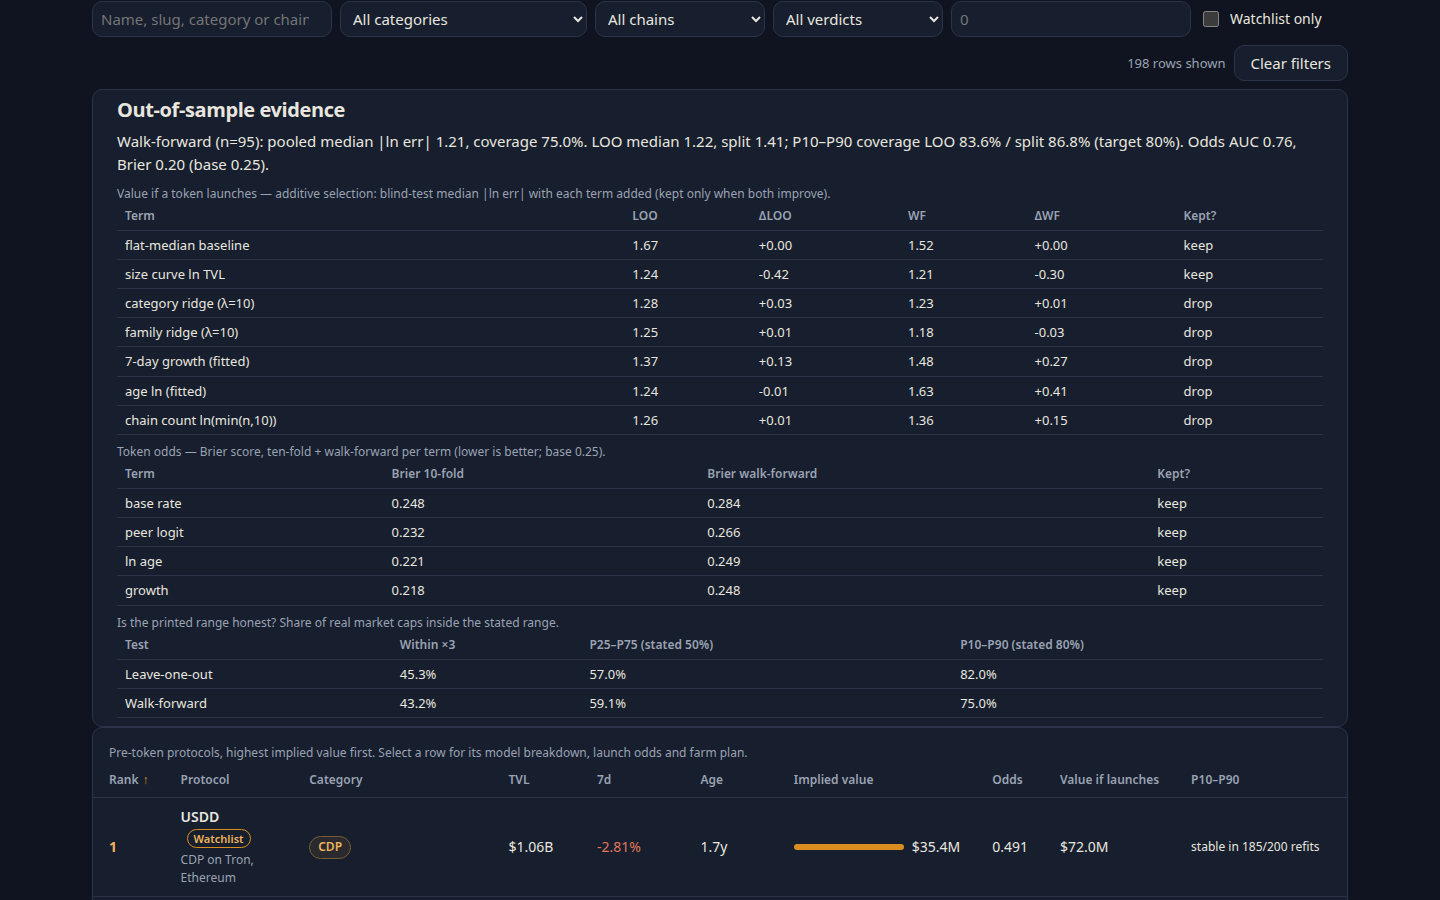
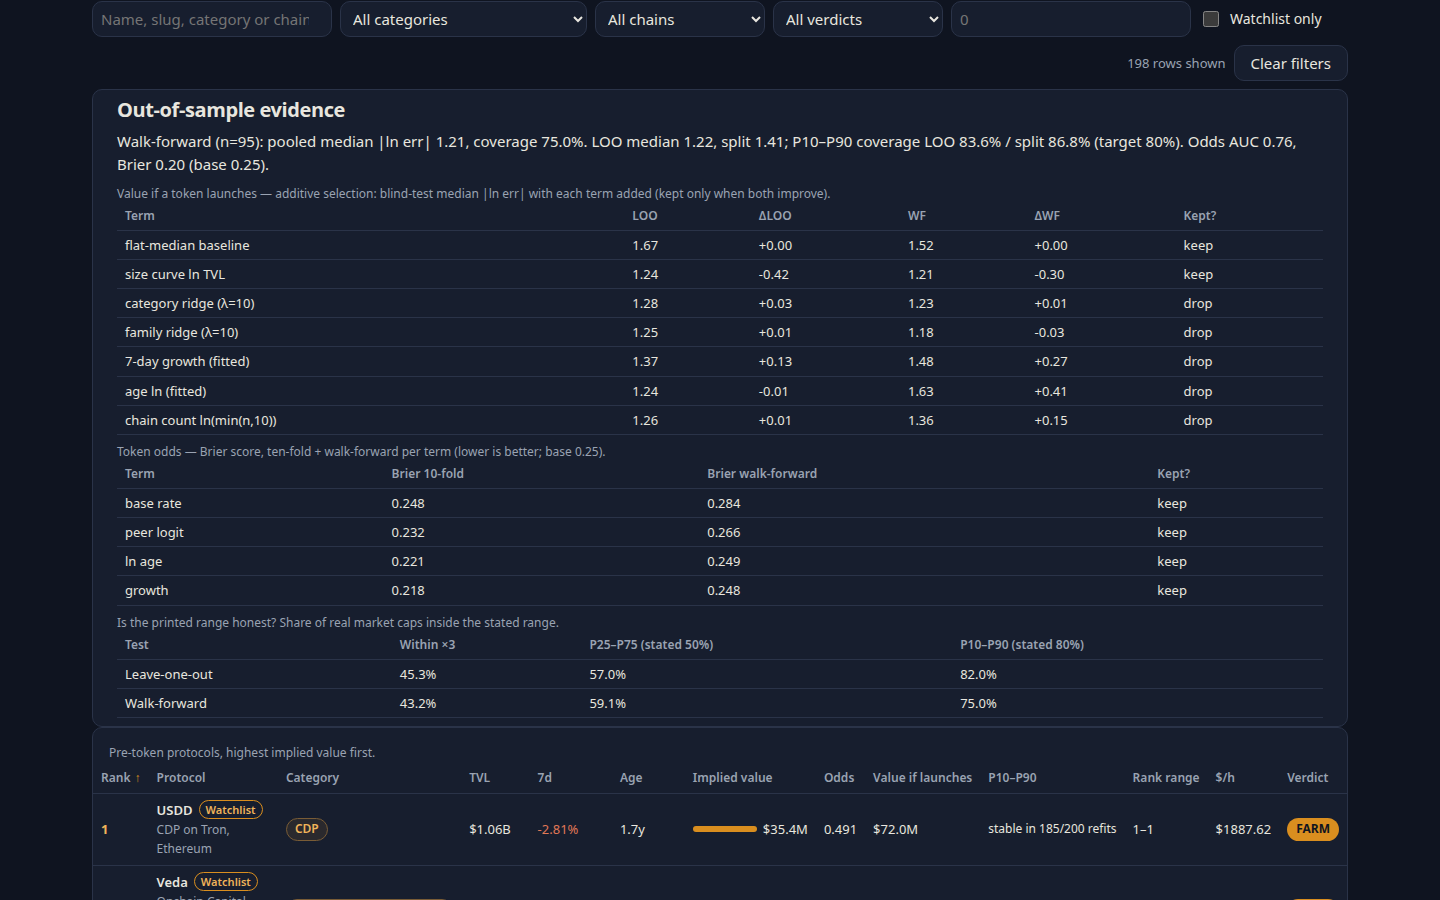
Radar-7 fix1: FARM view sorted by $/hour, board table fits at 1440px

diff --git a/dashboard/app.js b/dashboard/app.js
@@ -1,14 +1,11 @@
-// Token Radar dashboard (radar-7). Renders window.RADAR (data.js) — board,
-// filters, detail, live section, KPI/integrity, ledger, methodology,
-// sandbox. No network, no fetch, no framework. All numbers come from DATA.
+// Token Radar dashboard (radar-7): renders window.RADAR. No network; all numbers come from DATA.
 (function () {
   'use strict';
 
   var DATA = window.RADAR;
   if (!DATA) return;
 
-  // Distinct values actually present on the board; a hash may name a value
-  // outside these sets (e.g. #category=CEX — CEX is live-only, never board).
+  // Values actually present on the board (a hash may name others).
   var boardCats = {}, boardChains = {};
 
   var state = {
@@ -40,8 +37,7 @@
   function fmtRange(lo, hi) {
     return fmtUsd(lo) + '–' + fmtUsd(hi);
   }
-  // Collapsed bootstrap intervals (P10 = P90) are shown as the measured
-  // refit count, never as two identical bounds (radar-4 T4).
+  // Collapsed intervals show the refit count, never two equal bounds.
   function fmtInterval(r) {
     if (r.stable_refits !== null && r.stable_refits !== undefined) {
       return 'stable in ' + r.stable_refits + '/' + DATA.assumptions.bootstrap_b + ' refits';
@@ -91,6 +87,8 @@
     state.watchOnly = params.get('watch') === '1';
     state.minTvl = parseFloat(params.get('min')) || 0;
     state.selected = params.get('p');
+    // T4: the FARM view sorts by $/hour, not rank.
+    if (state.verdict === 'FARM') { state.sort = 'dph'; state.dir = -1; }
   }
   function writeHash() {
     var params = new URLSearchParams();
@@ -134,6 +132,7 @@
       else if (key === 'ev') { av = a.value_if_launches_usd; bv = b.value_if_launches_usd; }
       else if (key === 'interval') { av = a.p90_usd; bv = b.p90_usd; }
       else if (key === 'rankrange') { av = a.rank_hi - a.rank_lo; bv = b.rank_hi - b.rank_lo; }
+      else if (key === 'dph') { av = a.dollars_per_hour; bv = b.dollars_per_hour; }
       else if (key === 'verdict') { av = VERDICT_ORDER[a.verdict]; bv = VERDICT_ORDER[b.verdict]; }
       else { av = a.implied_value_usd; bv = b.implied_value_usd; }
       if (av < bv) return -dir;
@@ -151,9 +150,7 @@
     });
   }
 
-  // Keep a select in sync even when the requested value is not a board
-  // value: show the requested value as a clearly-marked option instead of
-  // leaving the select on some other category (or on nothing at all).
+  // Keep a select in sync even for a value not on the board (marked).
   function syncSelectWithUnknown(select, value, known) {
     var prev = select.querySelector('option[data-unknown]');
     if (prev) prev.remove();
@@ -192,11 +189,17 @@
     q.addEventListener('input', function () { state.q = q.value; writeHash(); renderRows(); });
     cat.addEventListener('change', function () { state.category = cat.value; writeHash(); renderRows(); });
     ch.addEventListener('change', function () { state.chain = ch.value; writeHash(); renderRows(); });
-    verdict.addEventListener('change', function () { state.verdict = verdict.value; writeHash(); renderRows(); });
+    verdict.addEventListener('change', function () {
+      state.verdict = verdict.value;
+      if (state.verdict === 'FARM') { state.sort = 'dph'; state.dir = -1; }
+      else if (state.sort === 'dph') { state.sort = 'rank'; state.dir = 1; }
+      writeHash(); renderRows();
+    });
     min.addEventListener('input', function () { state.minTvl = parseFloat(min.value) || 0; writeHash(); renderRows(); });
     watch.addEventListener('change', function () { state.watchOnly = watch.checked; writeHash(); renderRows(); });
     document.getElementById('clear').addEventListener('click', function () {
       state.q = ''; state.category = 'all'; state.chain = 'all'; state.verdict = 'all'; state.watchOnly = false; state.minTvl = 0;
+      state.sort = 'rank'; state.dir = 1;
       syncControls();
       writeHash(); renderRows();
     });
@@ -243,6 +246,7 @@
         el('td', { class: 'num', text: fmtUsd(r.value_if_launches_usd) }),
         el('td', { class: 'num interval', text: fmtInterval(r) }),
         el('td', { class: 'num', text: r.rank_lo + '–' + r.rank_hi }),
+        el('td', { class: 'num', text: '$' + r.dollars_per_hour }),
         el('td', null, el('span', { class: 'verdict v-' + r.verdict.toLowerCase(), text: r.verdict }))
       );
       tbody.appendChild(tr);

diff --git a/dashboard/app.css b/dashboard/app.css
@@ -73,9 +73,9 @@ main { max-width: 1320px; margin: 0 auto; padding: 0 var(--s5) var(--s6); }
 
 .panel { background: var(--surface); border: 1px solid var(--border); border-radius: var(--radius); overflow: hidden; }
 .table-wrap { overflow-x: auto; }
-table { width: 100%; border-collapse: collapse; font-size: 14px; }
+table { width: 100%; border-collapse: collapse; font-size: 13px; }
 caption { text-align: left; color: var(--muted); font-size: 12px; padding: var(--s3) var(--s3) 0; }
-th, td { padding: var(--s2) var(--s3); border-bottom: 1px solid var(--border); text-align: left; vertical-align: middle; }
+th, td { padding: 6px 8px; border-bottom: 1px solid var(--border); text-align: left; vertical-align: middle; }
 th { color: var(--muted); font-size: 12px; font-weight: 600; white-space: nowrap; }
 th button { border: 0; background: none; padding: 0; color: inherit; font: inherit; display: inline-flex; gap: var(--s1); align-items: center; }
 th button:hover { color: var(--ink); }
@@ -101,9 +101,9 @@ tbody tr[data-selected="true"] { background: color-mix(in srgb, var(--accent) 12
   border-radius: 999px; padding: 1px 8px;
 }
 .rank { color: var(--accent-ink); font-weight: 700; }
-.bar { width: 110px; height: 6px; border-radius: 3px; background: var(--border); overflow: hidden; }
+.bar { width: 64px; height: 6px; border-radius: 3px; background: var(--border); overflow: hidden; }
 .bar i { display: block; height: 100%; background: var(--accent); }
-.implied { display: flex; align-items: center; gap: var(--s2); }
+.implied { display: flex; align-items: center; gap: 6px; }
 .empty { padding: var(--s6) var(--s4); text-align: center; color: var(--muted); }
 
 .live { margin-top: var(--s4); border-left: 4px solid var(--muted); }

diff --git a/dashboard/index.html b/dashboard/index.html
@@ -61,7 +61,7 @@
   <section class="panel" aria-label="Ranked board">
     <div class="table-wrap">
       <table id="board">
-        <caption>Pre-token protocols, highest implied value first. Select a row for its model breakdown, launch odds and farm plan.</caption>
+        <caption>Pre-token protocols, highest implied value first.</caption>
         <thead><tr>
           <th scope="col"><button type="button" data-sort="rank">Rank</button></th>
           <th scope="col"><button type="button" data-sort="name">Protocol</button></th>
@@ -74,6 +74,7 @@
           <th scope="col"><button type="button" data-sort="ev">Value if launches</button></th>
           <th scope="col"><button type="button" data-sort="interval">P10–P90</button></th>
           <th scope="col"><button type="button" data-sort="rankrange">Rank range</button></th>
+          <th scope="col"><button type="button" data-sort="dph">$/h</button></th>
           <th scope="col"><button type="button" data-sort="verdict">Verdict</button></th>
         </tr></thead>
         <tbody id="rows"></tbody>

diff --git a/README.md b/README.md
@@ -4,7 +4,7 @@
 [![rank](https://make.fun/badge/token-radar-01/hyde1990/token-radar-01-entry/rank.svg)](https://make.fun/bounty/token-radar-01/leaderboard?utm_source=github&utm_medium=readme&utm_campaign=token-radar-01)
 [![reward](https://make.fun/badge/token-radar-01/hyde1990/token-radar-01-entry/reward.svg)](https://make.fun/bounty/token-radar-01?utm_source=github&utm_medium=readme&utm_campaign=token-radar-01)
 
-Token Launch Radar: ranks 198 DefiLlama protocols with no token by implied launch value — fitted value (a pooled log-log OLS fit on ln(TVL) only, slope 0.522266, intercept 6.964567; LOO median |ln err| 1.22, R² 0.19: honest about uncertainty, not precise) times launch odds. Implied value = fitted value × launch odds — the expected value of a launch. Implied value is the entry's own claim. Rank 1 is USDD at $35,364,990 implied value (value if launches $72,029,848, odds 0.491); total implied value across the board is $777,976,039. The board is ranked by implied value, not by fitted value alone. The fit is validated three ways: leave-one-out, a 70/30 split (86.8% coverage), and a walk-forward test on the 95 dated live tokens (pooled median |ln err| 1.21, 75.0% coverage — the second fold is worse than the first, reported as measured). A per-term additive test from zero keeps only the size curve — category, family, growth, age and chain-count terms all fail at least one blind test and are dropped, so every category shares one size curve. Every row carries launch odds (AUC 0.7647, Brier 0.1959 in-sample, 0.2175 ten-fold, 0.2482 walk-forward) and implied value, value if launches, P10–P90 and rank ranges from a deterministic B=200 bootstrap, the three nearest traded-token comps that anchor its value, and a farm verdict (FARM 25 / THIN 138 / SKIP 35 — farm netting now charges the farmer's hours at $25/h on top of gas and T-bill cost, which is why FARM fell from 104), backed by a 758-protocol ledger. The board renders as a static offline dashboard (64,731 B, dark theme) with an out-of-sample evidence section (additive selection, odds CV, range honesty), a KPI/integrity strip, a sandbox, per-protocol detail, filters, and concrete farm plans with costs and times.
+Token Launch Radar: ranks 198 DefiLlama protocols with no token by implied launch value — fitted value (a pooled log-log OLS fit on ln(TVL) only, slope 0.522266, intercept 6.964567; LOO median |ln err| 1.22, R² 0.19: honest about uncertainty, not precise) times launch odds. Implied value = fitted value × launch odds — the expected value of a launch. Implied value is the entry's own claim. Rank 1 is USDD at $35,364,990 implied value (value if launches $72,029,848, odds 0.491); total implied value across the board is $777,976,039. The board is ranked by implied value, not by fitted value alone. The fit is validated three ways: leave-one-out, a 70/30 split (86.8% coverage), and a walk-forward test on the 95 dated live tokens (pooled median |ln err| 1.21, 75.0% coverage — the second fold is worse than the first, reported as measured). A per-term additive test from zero keeps only the size curve — category, family, growth, age and chain-count terms all fail at least one blind test and are dropped, so every category shares one size curve. Every row carries launch odds (AUC 0.7647, Brier 0.1959 in-sample, 0.2175 ten-fold, 0.2482 walk-forward) and implied value, value if launches, P10–P90 and rank ranges from a deterministic B=200 bootstrap, the three nearest traded-token comps that anchor its value, and a farm verdict (FARM 25 / THIN 138 / SKIP 35 — farm netting now charges the farmer's hours at $25/h on top of gas and T-bill cost, which is why FARM fell from 104), backed by a 758-protocol ledger. The board renders as a static offline dashboard (64,793 B, dark theme) with an out-of-sample evidence section (additive selection, odds CV, range honesty), a KPI/integrity strip, a sandbox, per-protocol detail, filters, and concrete farm plans with costs and times.
 
 ## Run it
 
